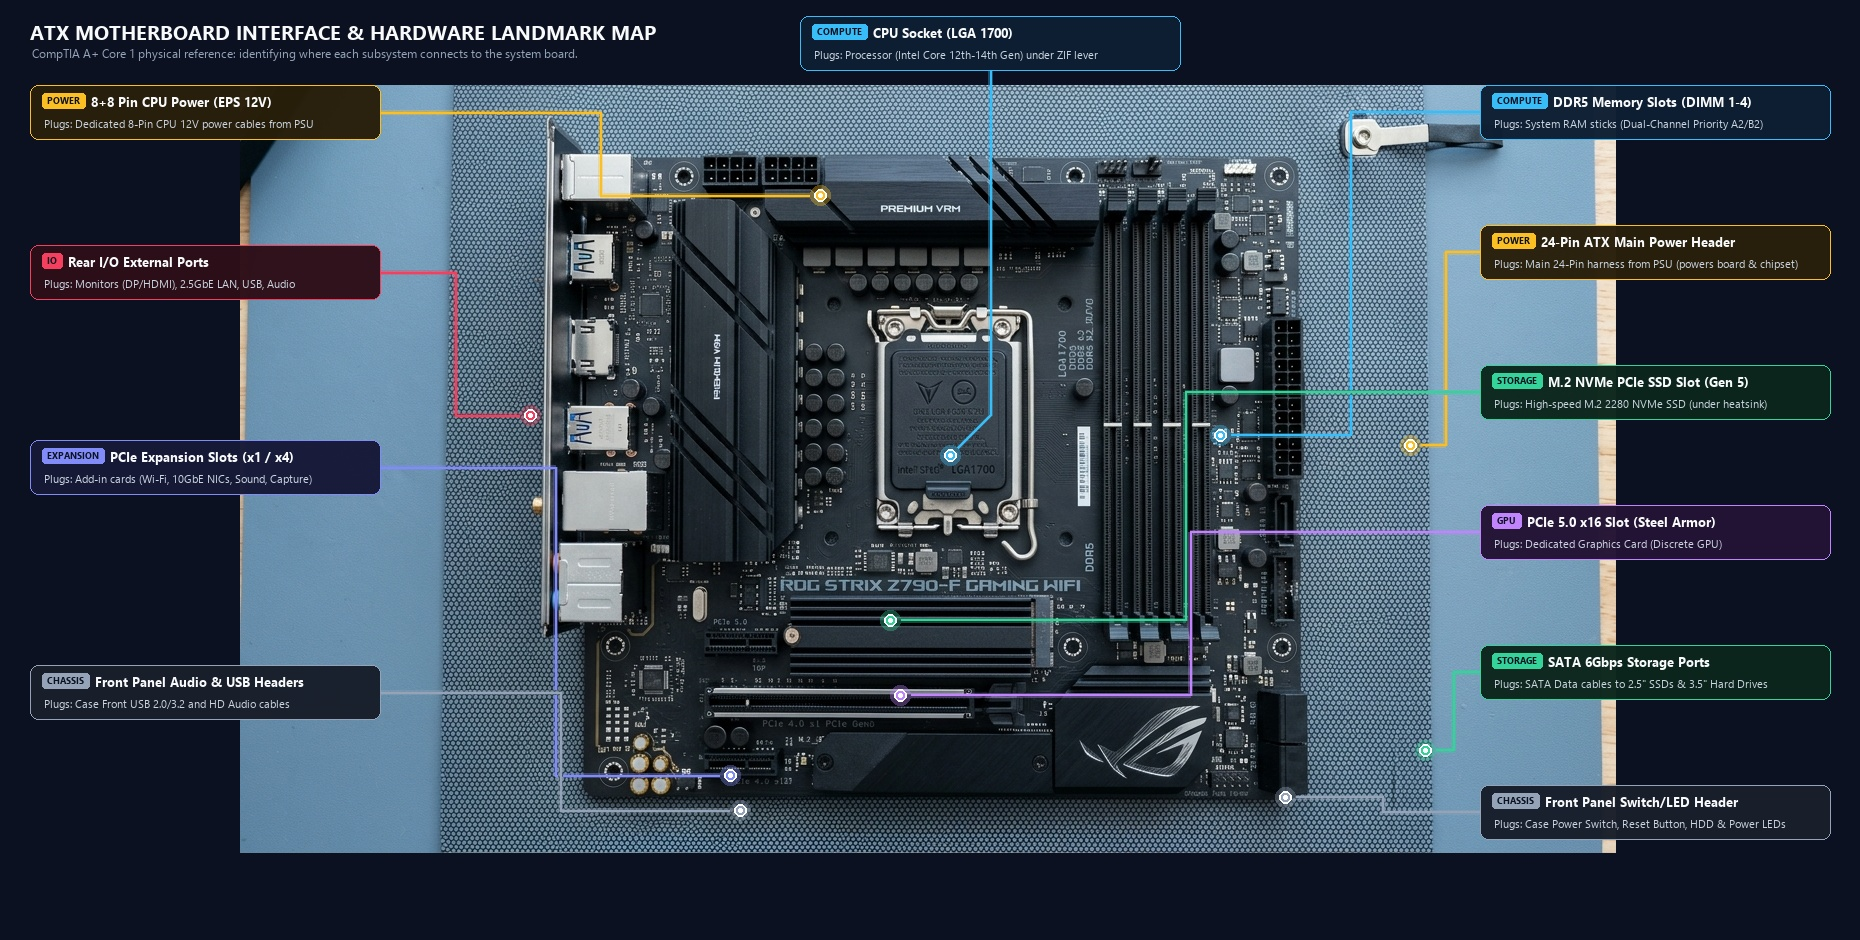
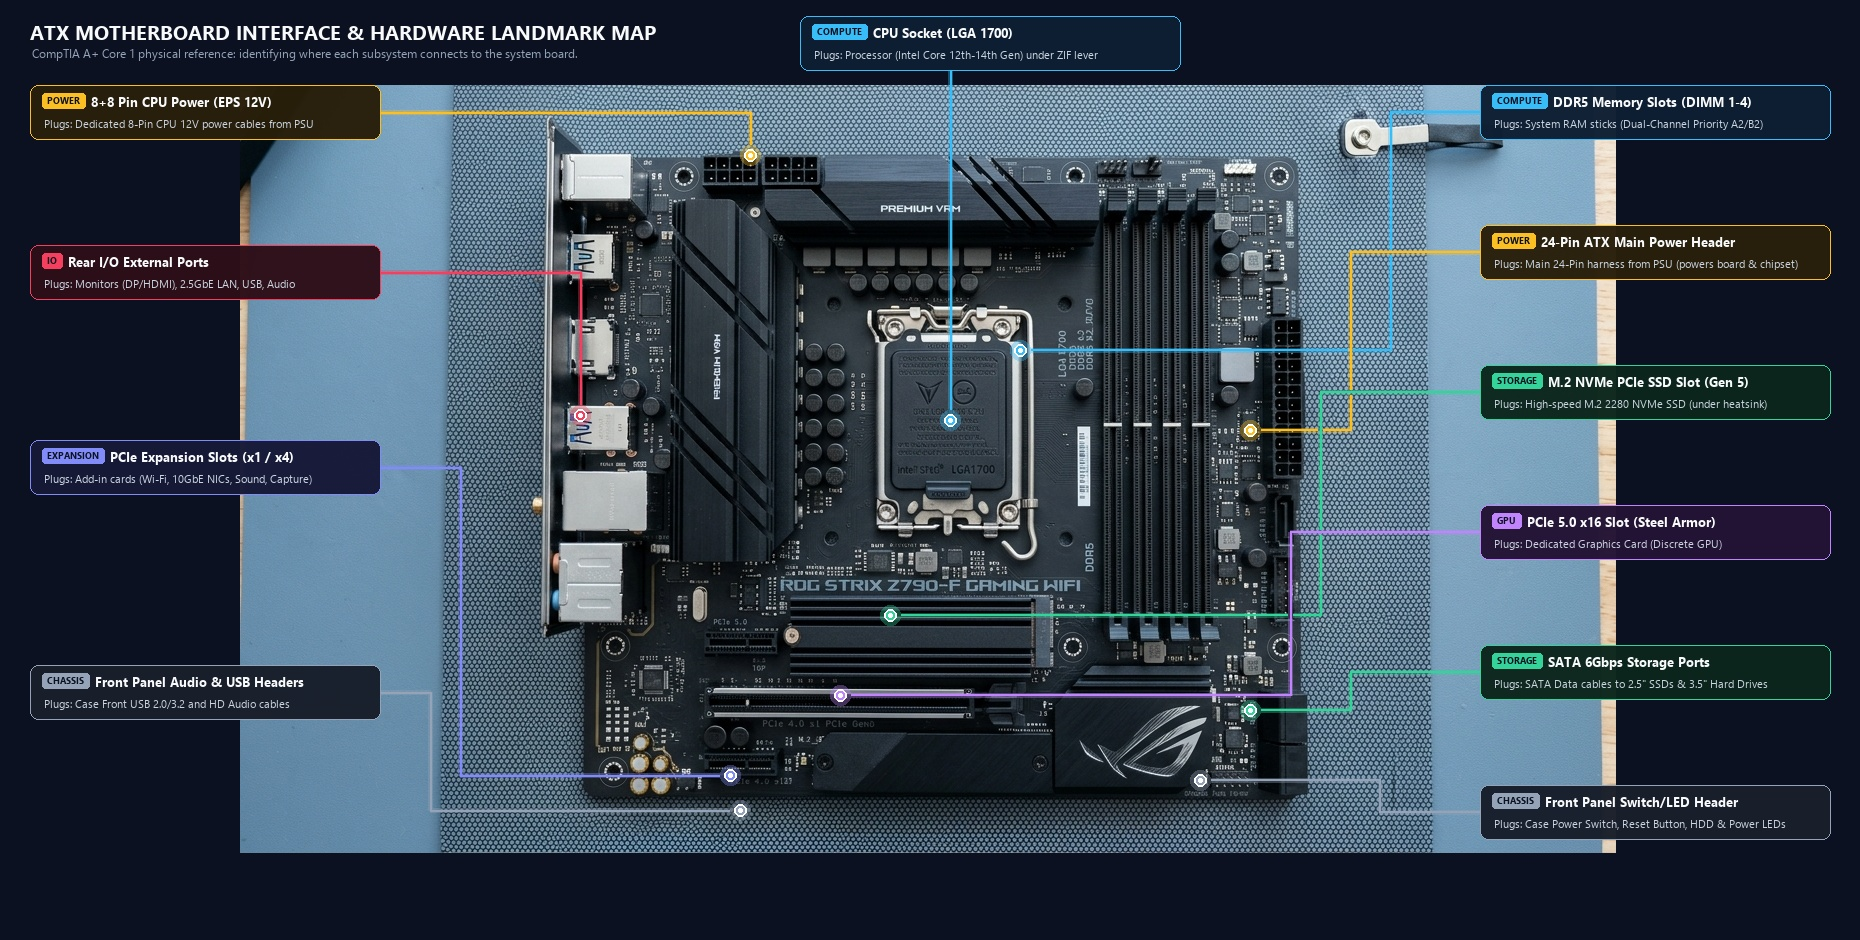
fix(lms): calibrate motherboard landmark trace lines and optimize track props payload

diff --git a/scripts/build_motherboard_diagram.py b/scripts/build_motherboard_diagram.py
@@ -1,26 +1,25 @@
 import os
 from PIL import Image, ImageDraw, ImageFont
 
-# Load original base photograph
+# Load clean original motherboard image
 src_path = "original_motherboard.jpg"
-base = Image.open(src_path).convert("RGBA")
-base_w, base_h = base.size
+if not os.path.exists(src_path):
+    # Fallback to extracting from git if needed
+    import subprocess
+    with open(src_path, "wb") as f:
+        subprocess.run(["git", "show", "HEAD:public/images/hardware/motherboard-atx-landmarks.jpg"], stdout=f)
 
-# Target canvas: 1860 x 940 gives generous margins on all 4 sides
+base = Image.open(src_path).convert("RGBA")
+
+# Canvas setup: 1860 x 940
 CANVAS_W = 1860
 CANVAS_H = 940
-
-# Offset to center the base image in the canvas
 OFFSET_X = 240
 OFFSET_Y = 85
 
-# Create canvas with sleek dark background matching LMS theme (#0b1120)
 canvas = Image.new("RGBA", (CANVAS_W, CANVAS_H), (11, 17, 32, 255))
-
-# Paste base motherboard image in center
 canvas.paste(base, (OFFSET_X, OFFSET_Y))
 
-# Create drawing layer for lines and badges
 overlay = Image.new("RGBA", (CANVAS_W, CANVAS_H), (0, 0, 0, 0))
 draw = ImageDraw.Draw(overlay)
 
@@ -31,7 +30,7 @@ font_title = ImageFont.truetype("C:/Windows/Fonts/segoeuib.ttf", 13)
 font_subtitle = ImageFont.truetype("C:/Windows/Fonts/segoeui.ttf", 11)
 font_badge = ImageFont.truetype("C:/Windows/Fonts/segoeuib.ttf", 9)
 
-# Colors tailored for high contrast and pedagogical clarity
+# Theme tokens
 COLORS = {
     "COMPUTE":  {"border": (56, 189, 248, 255), "bg": (14, 30, 50, 248),  "accent": (56, 189, 248, 255), "glow": (56, 189, 248, 90)},
     "POWER":    {"border": (251, 191, 36, 255), "bg": (40, 30, 10, 248),  "accent": (251, 191, 36, 255), "glow": (251, 191, 36, 90)},
@@ -42,114 +41,110 @@ COLORS = {
     "CHASSIS":  {"border": (148, 163, 184, 255), "bg": (24, 30, 42, 248), "accent": (148, 163, 184, 255), "glow": (148, 163, 184, 90)},
 }
 
-# Header banner at top
+# Header banner
 draw.text((30, 18), "ATX MOTHERBOARD INTERFACE & HARDWARE LANDMARK MAP", fill=(248, 250, 252), font=font_header)
 draw.text((32, 45), "CompTIA A+ Core 1 physical reference: identifying where each subsystem connects to the system board.", fill=(148, 163, 184), font=font_subhdr)
 
-# Helper to transform board coords to canvas coords
-def to_canvas(bx, by):
-    return (bx + OFFSET_X, by + OFFSET_Y)
-
-# Calibrated callouts
+# Calibrated Callouts with dedicated trace paths
 callouts = [
     # Top Left: CPU EPS Power
     {
         "category": "POWER",
         "title": "8+8 Pin CPU Power (EPS 12V)",
         "plugs": "Plugs: Dedicated 8-Pin CPU 12V power cables from PSU",
-        "anchor": to_canvas(580, 110),
         "box": (30, 85, 350, 54),
-        "side": "right",
+        "anchor": (750, 155),
+        "path": [(380, 112), (750, 112), (750, 155)],
     },
     # Top Center: CPU Socket
     {
         "category": "COMPUTE",
         "title": "CPU Socket (LGA 1700)",
         "plugs": "Plugs: Processor (Intel Core 12th-14th Gen) under ZIF lever",
-        "anchor": to_canvas(710, 370),
         "box": (800, 16, 380, 54),
-        "side": "top_center",
+        "anchor": (950, 420),
+        "path": [(950, 70), (950, 420)],
     },
     # Left 2: Rear I/O Panel
     {
         "category": "IO",
         "title": "Rear I/O External Ports",
         "plugs": "Plugs: Monitors (DP/HDMI), 2.5GbE LAN, USB, Audio",
-        "anchor": to_canvas(290, 330),
         "box": (30, 245, 350, 54),
-        "side": "right",
+        "anchor": (580, 415),
+        "path": [(380, 272), (580, 272), (580, 415)],
     },
     # Left 3: PCIe Expansion Slots
     {
         "category": "EXPANSION",
         "title": "PCIe Expansion Slots (x1 / x4)",
         "plugs": "Plugs: Add-in cards (Wi-Fi, 10GbE NICs, Sound, Capture)",
-        "anchor": to_canvas(490, 690),
         "box": (30, 440, 350, 54),
-        "side": "right",
+        "anchor": (730, 775),
+        "path": [(380, 467), (460, 467), (460, 775), (730, 775)],
     },
     # Left 4: Front Audio & Case Headers
     {
         "category": "CHASSIS",
         "title": "Front Panel Audio & USB Headers",
         "plugs": "Plugs: Case Front USB 2.0/3.2 and HD Audio cables",
-        "anchor": to_canvas(500, 725),
         "box": (30, 665, 350, 54),
-        "side": "right",
+        "anchor": (740, 810),
+        "path": [(380, 692), (430, 692), (430, 810), (740, 810)],
     },
     # Right 1: DDR5 RAM Slots
     {
         "category": "COMPUTE",
         "title": "DDR5 Memory Slots (DIMM 1-4)",
         "plugs": "Plugs: System RAM sticks (Dual-Channel Priority A2/B2)",
-        "anchor": to_canvas(980, 350),
         "box": (1480, 85, 350, 54),
-        "side": "left",
+        "anchor": (1020, 350),
+        "path": [(1480, 112), (1390, 112), (1390, 350), (1020, 350)],
     },
-    # Right 2: 24-Pin ATX Power
+    # Right 2: 24-Pin ATX Main Power Header
     {
         "category": "POWER",
         "title": "24-Pin ATX Main Power Header",
         "plugs": "Plugs: Main 24-Pin harness from PSU (powers board & chipset)",
-        "anchor": to_canvas(1170, 360),
         "box": (1480, 225, 350, 54),
-        "side": "left",
+        "anchor": (1250, 430),
+        "path": [(1480, 252), (1350, 252), (1350, 430), (1250, 430)],
     },
-    # Right 3: M.2 NVMe SSD Slot
+    # Right 3: M.2 NVMe SSD Slot (Gen 5)
     {
         "category": "STORAGE",
         "title": "M.2 NVMe PCIe SSD Slot (Gen 5)",
         "plugs": "Plugs: High-speed M.2 2280 NVMe SSD (under heatsink)",
-        "anchor": to_canvas(650, 535),
         "box": (1480, 365, 350, 54),
-        "side": "left",
+        "anchor": (890, 615),
+        "path": [(1480, 392), (1320, 392), (1320, 615), (890, 615)],
     },
     # Right 4: Primary PCIe 5.0 x16 Slot
     {
         "category": "GPU",
         "title": "PCIe 5.0 x16 Slot (Steel Armor)",
         "plugs": "Plugs: Dedicated Graphics Card (Discrete GPU)",
-        "anchor": to_canvas(660, 610),
         "box": (1480, 505, 350, 54),
-        "side": "left",
+        "anchor": (840, 695),
+        "path": [(1480, 532), (1290, 532), (1290, 695), (840, 695)],
     },
-    # Right 5: SATA 6Gbps Ports
+    # Right 5: SATA 6Gbps Storage Ports
     {
         "category": "STORAGE",
         "title": "SATA 6Gbps Storage Ports",
         "plugs": "Plugs: SATA Data cables to 2.5\" SSDs & 3.5\" Hard Drives",
-        "anchor": to_canvas(1185, 665),
         "box": (1480, 645, 350, 54),
-        "side": "left",
+        "anchor": (1250, 710),
+        "path": [(1480, 672), (1350, 672), (1350, 710), (1250, 710)],
     },
     # Bottom Right: Front Panel System Header
     {
         "category": "CHASSIS",
         "title": "Front Panel Switch/LED Header",
         "plugs": "Plugs: Case Power Switch, Reset Button, HDD & Power LEDs",
-        "anchor": to_canvas(1045, 712),
         "box": (1480, 785, 350, 54),
-        "side": "left",
+        "anchor": (1200, 780),
+        "path": [(1480, 812), (1380, 812), (1380, 780), (1200, 780)],
     },
 ]
 
@@ -175,54 +170,34 @@ def draw_badge(draw, c, box):
     # Subtitle / Plugs text
     draw.text((x + 14, y + 31), c["plugs"], fill=(203, 213, 225), font=font_subtitle)
 
-def draw_leader_line(draw, c):
+def draw_trace(draw, c):
     col = COLORS[c["category"]]
+    points = c["path"]
     ax, ay = c["anchor"]
-    bx, by, bw, bh = c["box"]
-    side = c["side"]
 
-    if side == "right":
-        cx = bx + bw
-        cy = by + bh // 2
-        mid_x = cx + (ax - cx) // 2
-        points = [(cx, cy), (mid_x, cy), (mid_x, ay), (ax, ay)]
-    elif side == "left":
-        cx = bx
-        cy = by + bh // 2
-        mid_x = cx - (cx - ax) // 2
-        points = [(cx, cy), (mid_x, cy), (mid_x, ay), (ax, ay)]
-    elif side == "top_center":
-        cx = bx + bw // 2
-        cy = by + bh
-        points = [(cx, cy), (cx, ay - 40), (ax, ay)]
-    else:
-        cx = bx + bw // 2
-        cy = by
-        points = [(cx, cy), (ax, ay)]
-
-    # Draw glow line
+    # Glow line
     for p1, p2 in zip(points[:-1], points[1:]):
         draw.line([p1, p2], fill=col["glow"], width=5)
 
-    # Draw crisp leader line
+    # Sharp trace line
     for p1, p2 in zip(points[:-1], points[1:]):
         draw.line([p1, p2], fill=col["border"], width=2)
 
-    # Anchor point target ring
+    # Target anchor ring directly on the physical hardware port
     draw.ellipse([ax - 10, ay - 10, ax + 10, ay + 10], fill=col["glow"])
     draw.ellipse([ax - 6, ay - 6, ax + 6, ay + 6], fill=col["border"], outline=(255, 255, 255, 255), width=2)
     draw.ellipse([ax - 2, ay - 2, ax + 2, ay + 2], fill=(255, 255, 255, 255))
 
-# Draw all leader lines
+# Draw all traces first
 for c in callouts:
-    draw_leader_line(draw, c)
+    draw_trace(draw, c)
 
-# Draw all badges
+# Draw all badges on top
 for c in callouts:
     draw_badge(draw, c, c["box"])
 
-# Composite overlay on top of canvas
+# Composite overlay
 final_img = Image.alpha_composite(canvas, overlay).convert("RGB")
 output_path = "public/images/hardware/motherboard-atx-landmarks.jpg"
 final_img.save(output_path, quality=95)
-print(f"Successfully generated diagram to {output_path}")
+print(f"Successfully generated diagram with exact calibrated traces to {output_path}")
